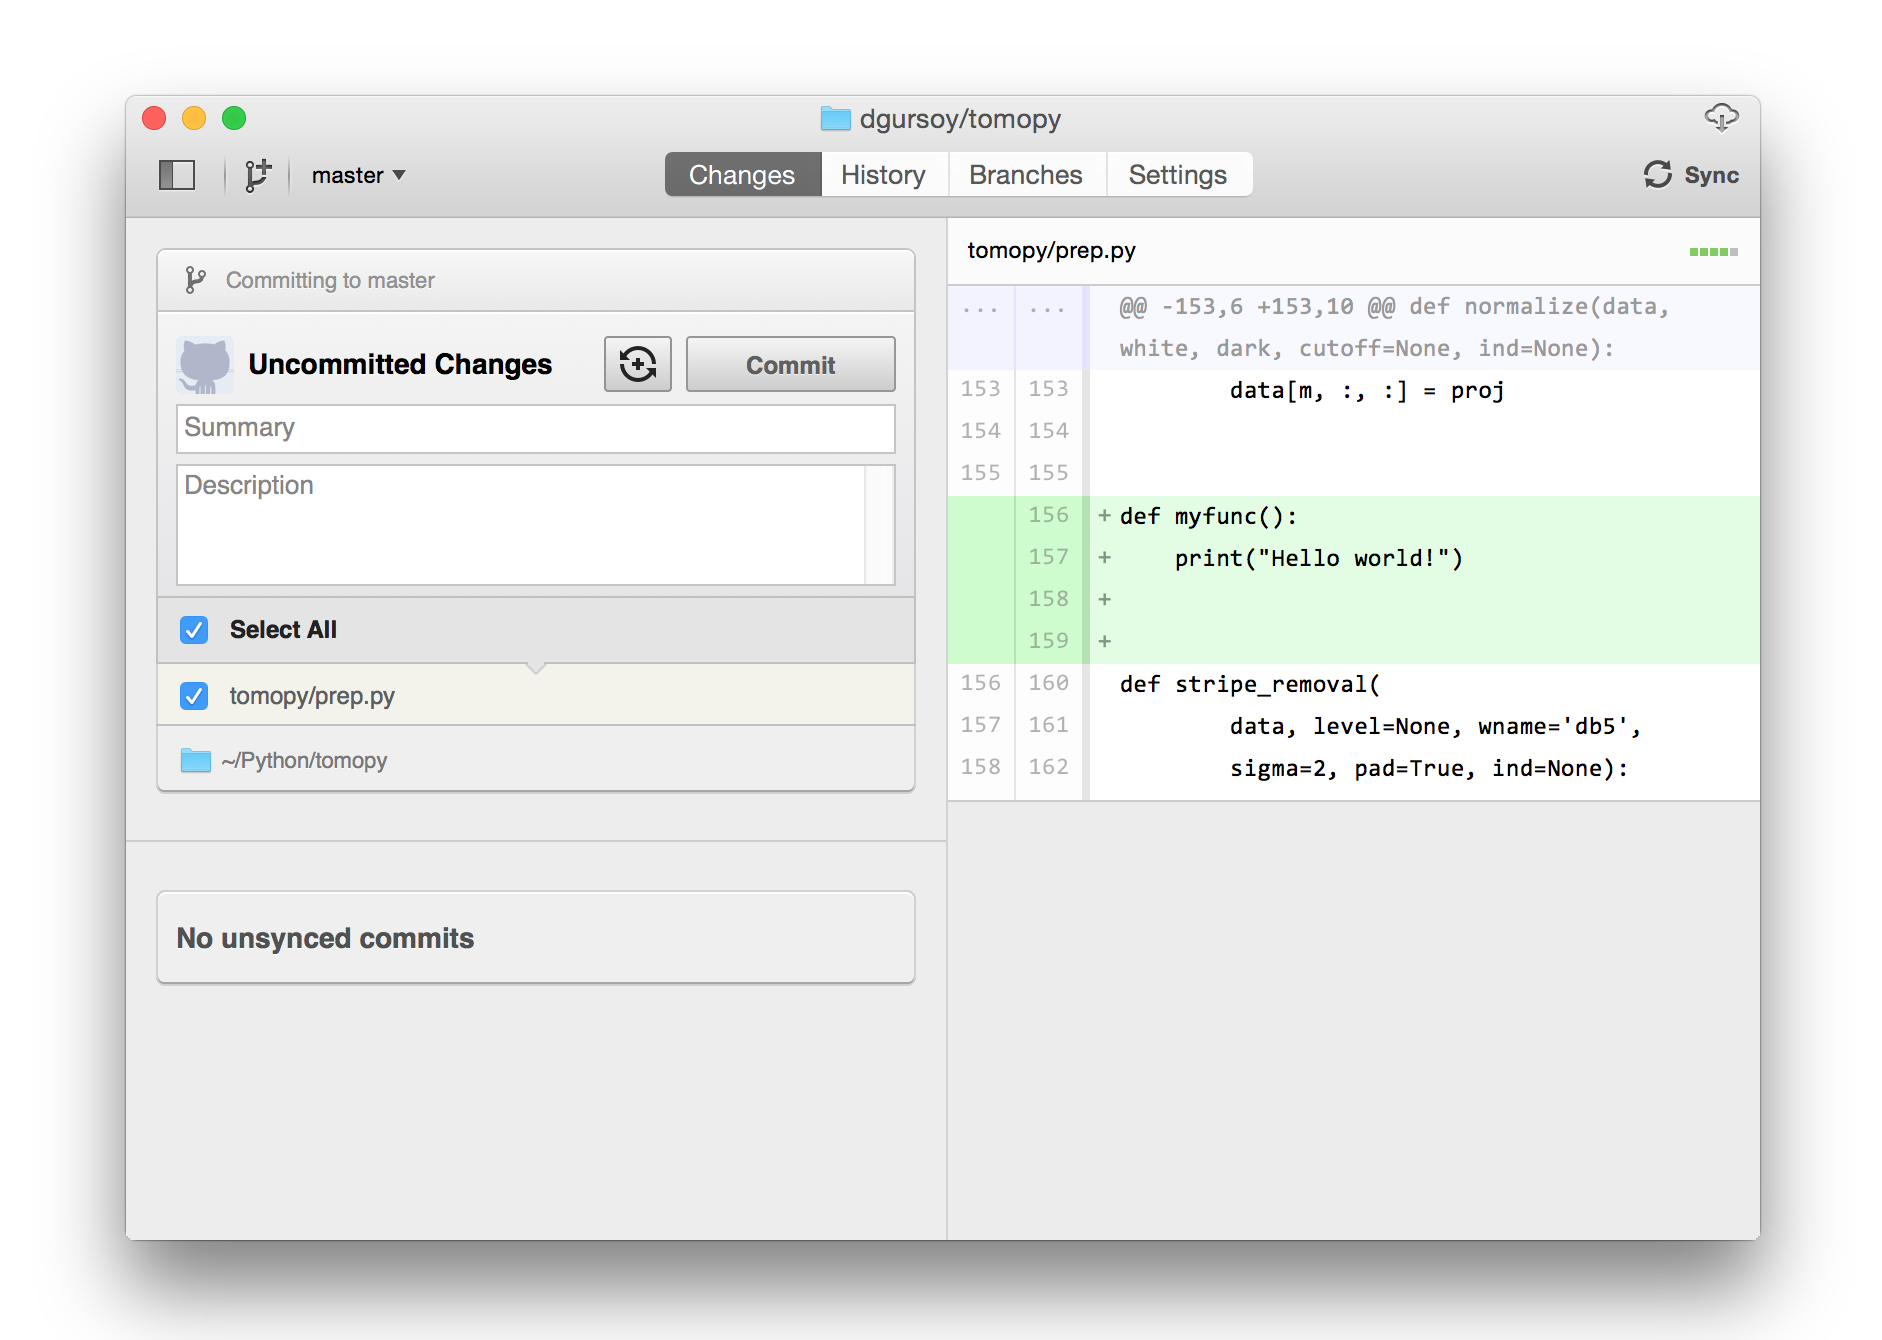
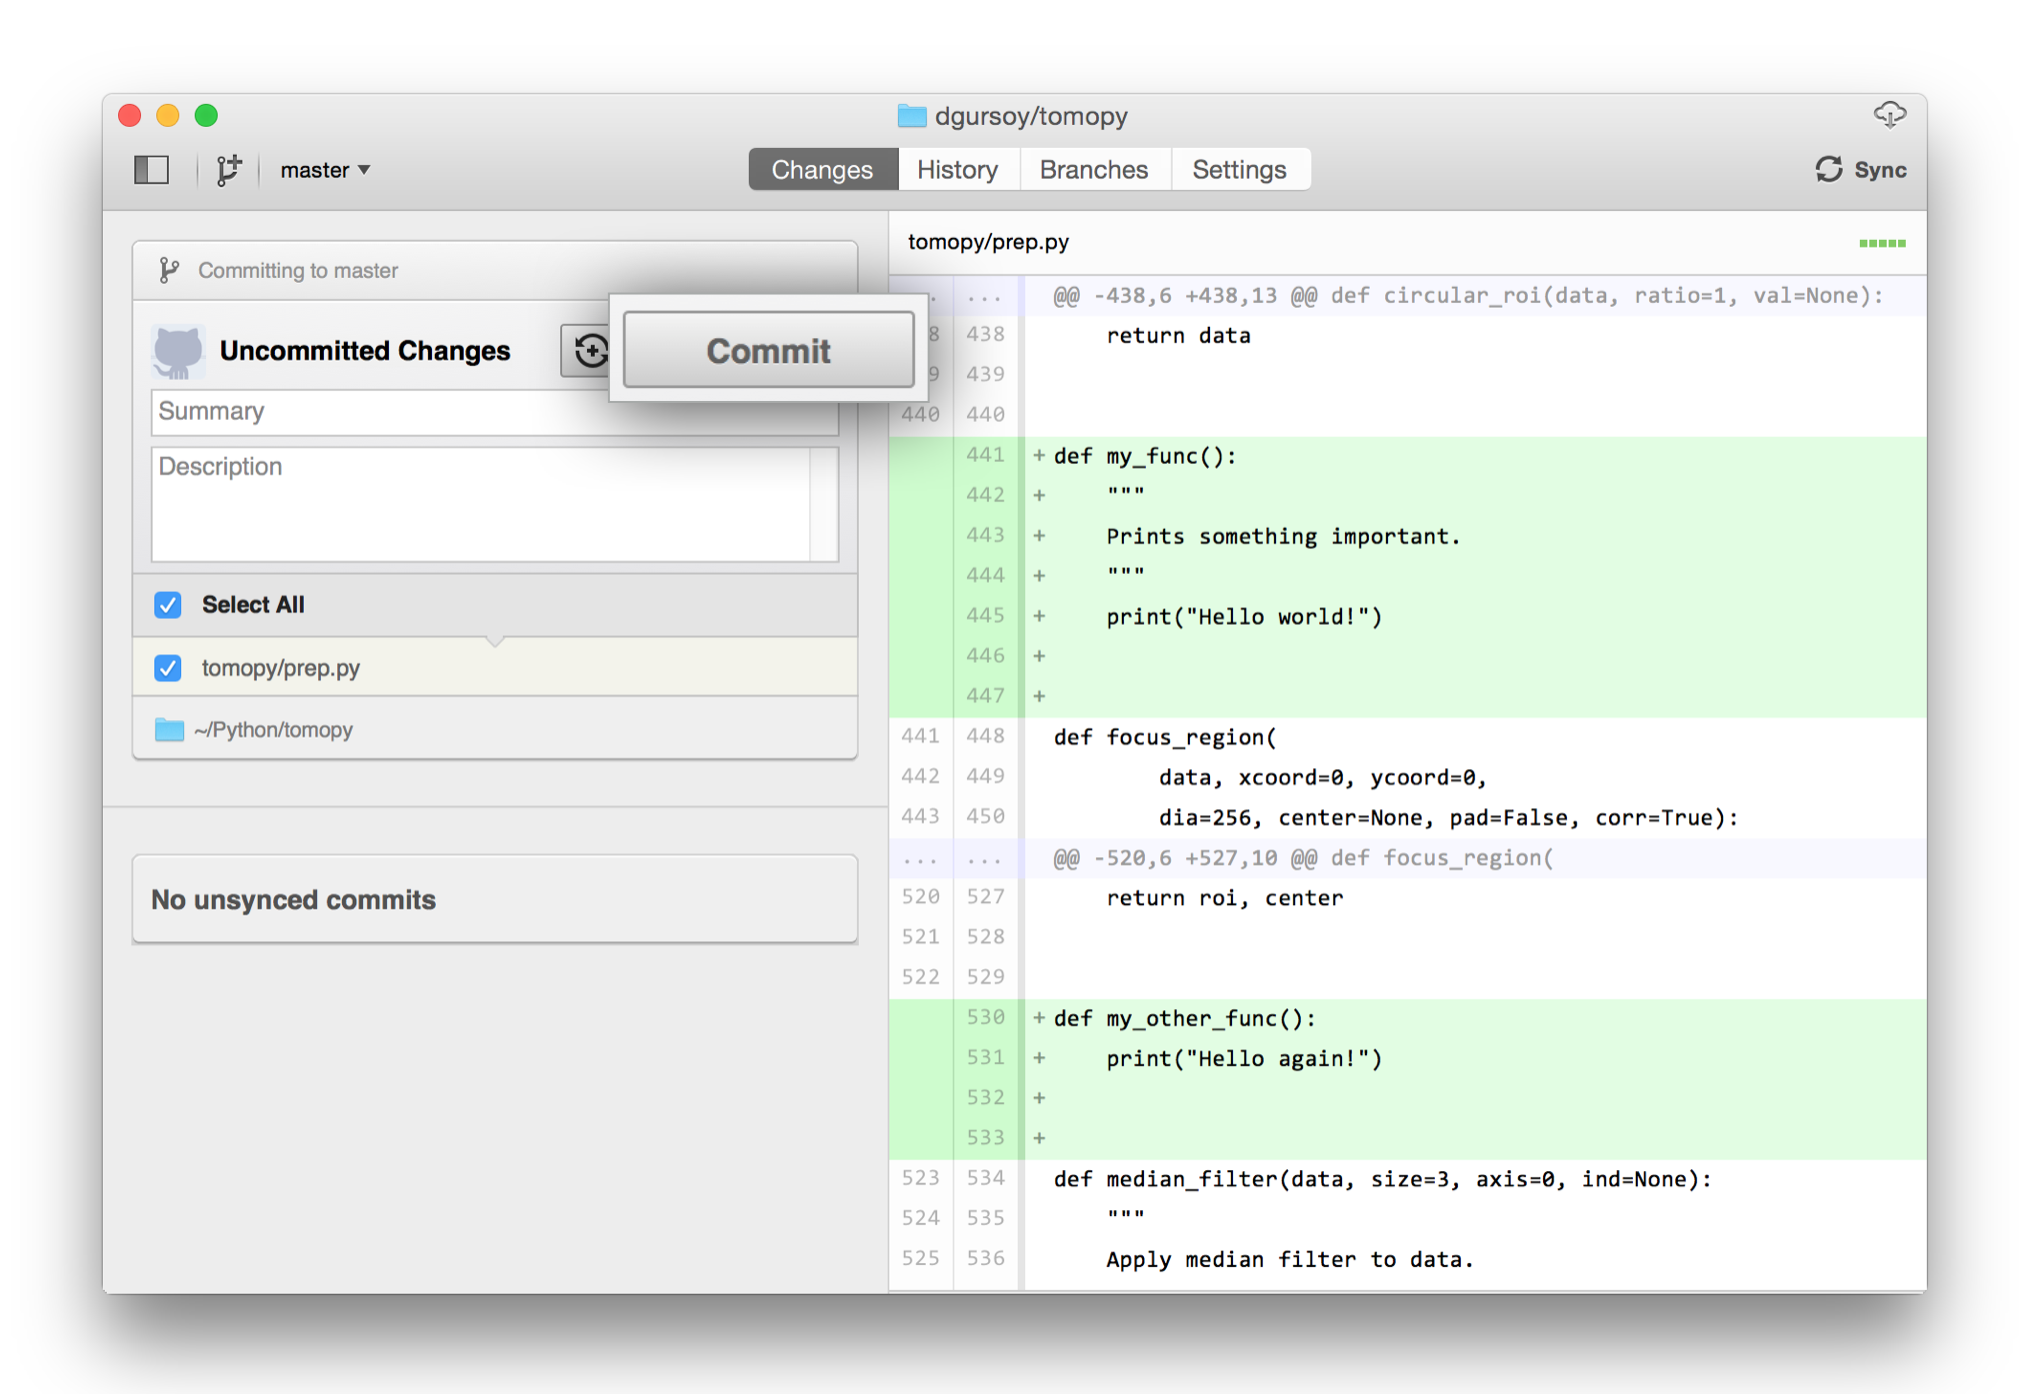
MNT: doc update
Former-commit-id: 7ddeb9a7388299777bf939e8e766a909a28f96c0 [formerly 1907ad51d569af42171c9a691e0a02aac4057f0a]
Former-commit-id: edfbc6b7e4c0ef561f63ad3aeb3f08044df7e71f

diff --git a/tomopy/prep.py b/tomopy/prep.py
@@ -153,10 +153,6 @@ def normalize(data, white, dark, cutoff=None, ind=None):
         data[m, :, :] = proj
 
 
-def myfunc():
-    print("Hello world!")
-
-
 def stripe_removal(
         data, level=None, wname='db5',
         sigma=2, pad=True, ind=None):
@@ -246,10 +242,6 @@ def stripe_removal(
             sli = pywt.idwt2((sli, (cH[m], cV[m], cD[m])), wname)
 
         data[:, n, :] = sli[xshft:dx + xshft, 0:dz]
-
-
-def myfunc():
-    print("Hello world!")
 
 
 def phase_retrieval(
